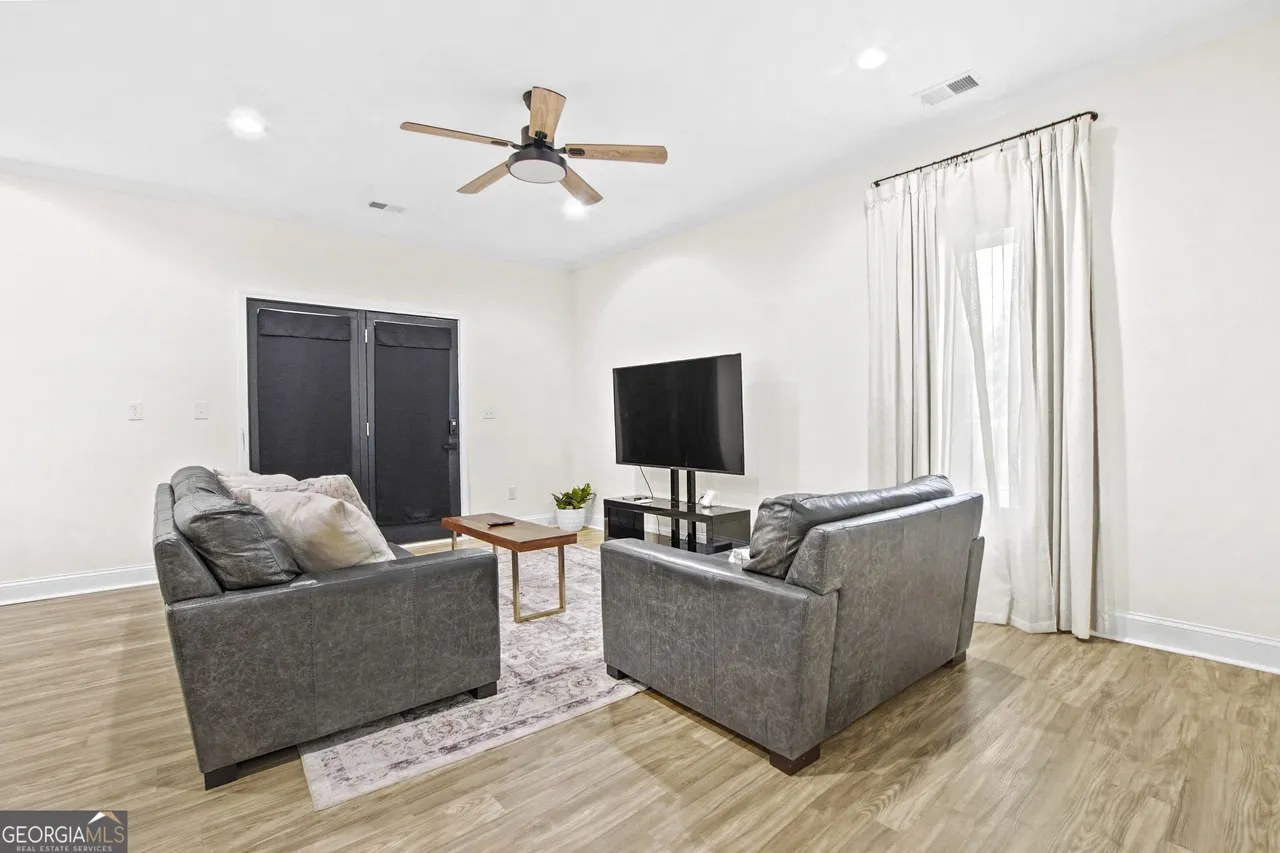
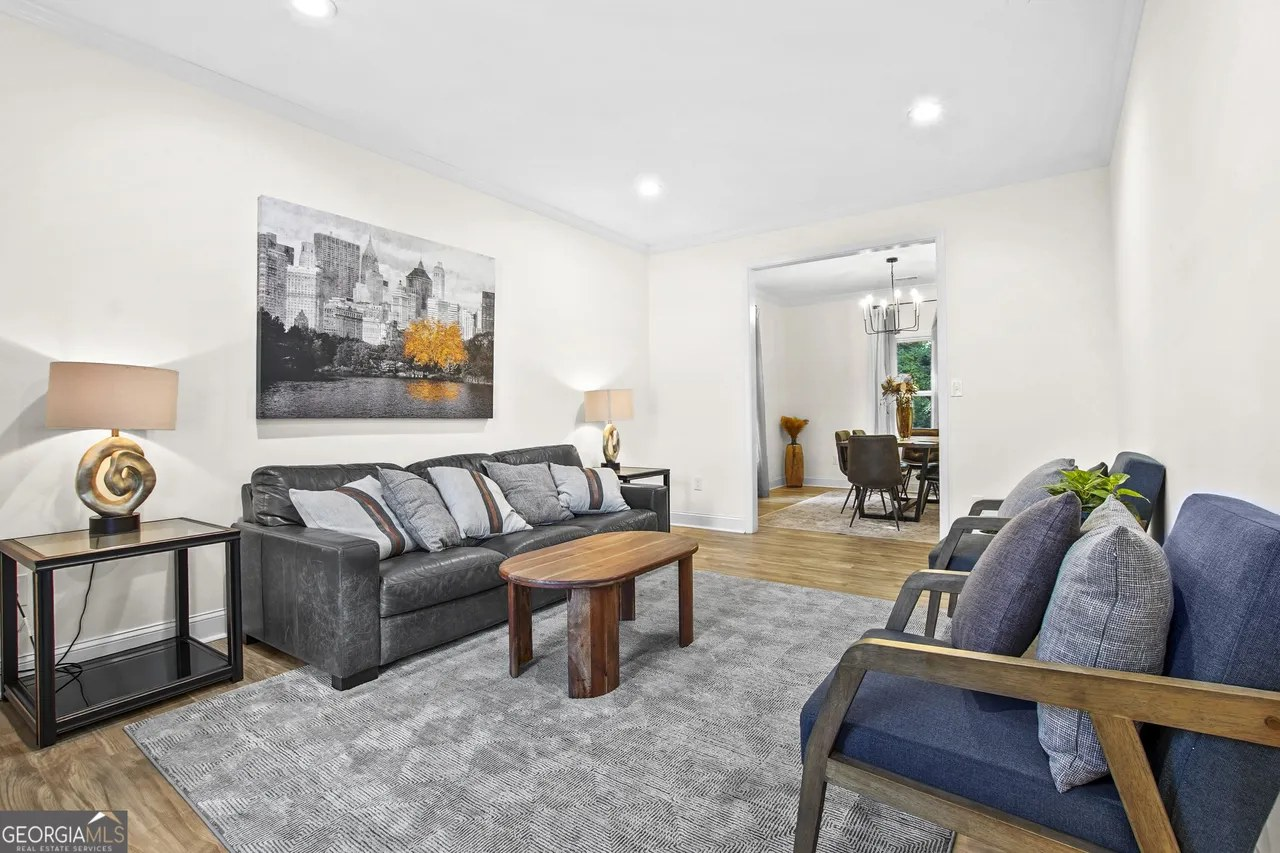
Rotate five room photos in one frame and fix the living room labels
Claude-Session: https://claude.ai/code/session_011D6Mdhu2p5CuPZmkTqDuP7

diff --git a/index.html b/index.html
@@ -113,6 +113,14 @@ img.photo{border:0;padding:0;display:block;object-fit:cover;background:var(--san
 @media (max-width:860px){.why{grid-template-columns:1fr}}
 
 .home{background:var(--oat)}
+.room-show{position:relative;aspect-ratio:3/2;max-width:960px;margin:0 auto;border-radius:36px;overflow:hidden;background:var(--sand)}
+.room-slide{position:absolute;inset:0;width:100%;height:100%;object-fit:cover;opacity:0;transition:opacity .35s ease}
+.room-slide.on{opacity:1}
+.room-name{position:absolute;left:22px;top:22px;padding:9px 18px;border-radius:999px;background:rgba(251,248,243,.92);font-family:var(--serif);font-style:italic;font-size:20px;color:var(--cocoa,#3A2E28)}
+.room-dots{position:absolute;left:0;right:0;bottom:18px;display:flex;justify-content:center;gap:8px}
+.room-dots i{width:8px;height:8px;border-radius:4px;background:rgba(251,248,243,.6);transition:width .3s,background .3s}
+.room-dots i.on{width:22px;background:#FBF8F3}
+@media (prefers-reduced-motion:reduce){.room-slide{transition:none}}
 .gallery{display:grid;grid-template-columns:repeat(4,minmax(0,1fr));gap:18px}
 .gallery figure{margin:0;display:grid;gap:10px}
 .gallery .photo{aspect-ratio:3/4}
@@ -278,23 +286,14 @@ footer .wrap{padding-block:30px;display:flex;justify-content:space-between;align
           </div>
         </div>
       </div>
-      <div class="gallery">
-        <figure><img class="photo arch" src="img/rooms/entry.jpg" alt="Front entry with a dark front door and a staircase" loading="lazy"><figcaption>Entry and staircase</figcaption></figure>
-        <figure><img class="photo arch" src="img/rooms/living.jpg" alt="Living room with leather sofas and a coffee table" loading="lazy"><figcaption>Living room</figcaption></figure>
-        <figure><img class="photo arch" src="img/rooms/dining.jpg" alt="Dining room with a wood table and a gold chandelier" loading="lazy"><figcaption>Dining room</figcaption></figure>
-        <figure><img class="photo arch" src="img/rooms/kitchen.jpg" alt="White kitchen with a granite island and stainless appliances" loading="lazy"><figcaption>Kitchen</figcaption></figure>
-        <figure><img class="photo arch" src="img/rooms/second-living.jpg" alt="Second living room with two sofas and a TV" loading="lazy"><figcaption>Second living room</figcaption></figure>
-        <figure><img class="photo arch" src="img/rooms/half-bath.jpg" alt="Half bath with a gold-framed mirror" loading="lazy"><figcaption>Half bath</figcaption></figure>
-        <figure><img class="photo arch" src="img/rooms/laundry.jpg" alt="Laundry room with a washer and dryer" loading="lazy"><figcaption>Laundry room</figcaption></figure>
-        <figure><img class="photo arch" src="img/rooms/main-bedroom.jpg" alt="Main bedroom with a black four-poster bed" loading="lazy"><figcaption>Main bedroom</figcaption></figure>
-        <figure><img class="photo arch" src="img/rooms/main-bath.jpg" alt="Main bathroom with a soaking tub and marble shower" loading="lazy"><figcaption>Main bathroom</figcaption></figure>
-        <figure><img class="photo arch" src="img/rooms/closet.jpg" alt="Walk-in closet with hanging rails" loading="lazy"><figcaption>Walk-in closet</figcaption></figure>
-        <figure><img class="photo arch" src="img/rooms/bonus.jpg" alt="Bright bonus room with a sloped ceiling" loading="lazy"><figcaption>Bonus room</figcaption></figure>
-        <figure><img class="photo arch" src="img/rooms/bedroom-two.jpg" alt="Bedroom with striped bedding" loading="lazy"><figcaption>Bedroom two</figcaption></figure>
-        <figure><img class="photo arch" src="img/rooms/bedroom-three.jpg" alt="Bedroom with blue bedding" loading="lazy"><figcaption>Bedroom three</figcaption></figure>
-        <figure><img class="photo arch" src="img/rooms/bedroom-four.jpg" alt="Bedroom with gray and white bedding" loading="lazy"><figcaption>Bedroom four</figcaption></figure>
-        <figure><img class="photo arch" src="img/rooms/bath.jpg" alt="Hall bathroom with a double vanity" loading="lazy"><figcaption>Hall bathroom</figcaption></figure>
-        <figure><img class="photo arch" src="img/rooms/backyard.jpg" alt="Large grassy backyard behind the home" loading="lazy"><figcaption>Backyard</figcaption></figure>
+      <div class="room-show" id="room-show" aria-roledescription="slideshow" aria-label="Photos of the rooms">
+        <img class="room-slide on" src="img/rooms/living.jpg" alt="Main living room with two sofas, a ceiling fan and a TV" data-room="Living room">
+        <img class="room-slide" src="img/rooms/second-living.jpg" alt="Second living room with leather sofas and a coffee table" data-room="Second living room" loading="eager">
+        <img class="room-slide" src="img/rooms/dining.jpg" alt="Dining room with a wood table and a gold chandelier" data-room="Dining room" loading="eager">
+        <img class="room-slide" src="img/rooms/kitchen.jpg" alt="White kitchen with a granite island and stainless appliances" data-room="Kitchen" loading="eager">
+        <img class="room-slide" src="img/rooms/main-bedroom.jpg" alt="Main bedroom with a black four-poster bed" data-room="Main bedroom" loading="eager">
+        <span class="room-name" aria-live="off">Living room</span>
+        <div class="room-dots" aria-hidden="true"><i></i><i></i><i></i><i></i><i></i></div>
       </div>
       <div class="specs">
         <div><b>4</b><span>bedrooms</span></div>
@@ -429,6 +428,15 @@ footer .wrap{padding-block:30px;display:flex;justify-content:space-between;align
   </div>
 </footer>
 
+<script>
+(function(){
+  var box=document.getElementById('room-show'); if(!box) return;
+  var slides=box.querySelectorAll('.room-slide'), dots=box.querySelectorAll('.room-dots i'), name=box.querySelector('.room-name'), i=0;
+  function show(n){ slides[i].classList.remove('on'); dots[i].classList.remove('on'); i=n; slides[i].classList.add('on'); dots[i].classList.add('on'); name.textContent=slides[i].dataset.room; }
+  show(0);
+  setInterval(function(){ if(!document.hidden) show((i+1)%slides.length); },1000);
+})();
+</script>
 <script>
 (function(){
   var base='https://lhfhnrxhxoxtzubtrkbx.supabase.co/storage/v1/object/public/ai-videos/user_2rwAXJO2khuFX6nC6bJg1LCd1f2/';
